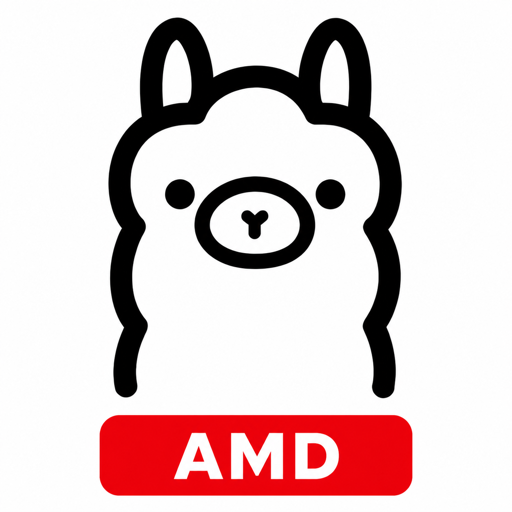
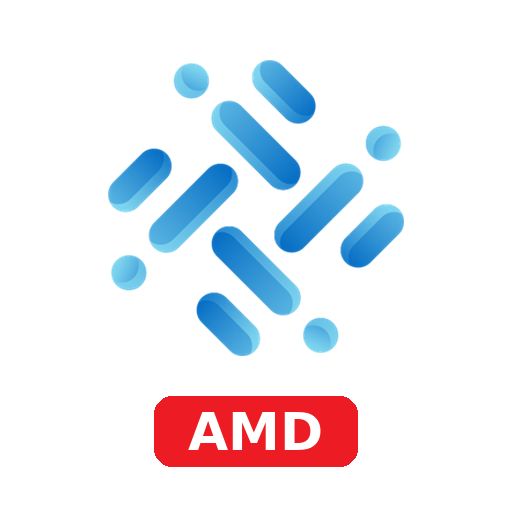
feat(apps): 将 Ollama 应用清单替换为 Kyserai GPU 变体
- 新增 nvidia/amd/intel 三个 Kyserai 应用清单（v10.25.5-kyseros.1），并更新图标与 README
- 新增 Dockerfile 与 GitHub Actions 构建工作流用于生成三平台镜像
- 更新 tests/test_manifests.py 以校验新的 slug、镜像与源信息

diff --git a/tests/test_manifests.py b/tests/test_manifests.py
@@ -5,33 +5,31 @@ from pathlib import Path
 
 
 ROOT = Path(__file__).resolve().parents[1]
+VERSION = 'v10.25.5-kyseros.1'
+SOURCE = 'https://github.com/cloudlnkcn/kyserai'
+SOURCE_REF = 'v10.25.5'
+IMAGE_BASE = 'kyserai'
 VARIANTS = {
     'nvidia': {
-        'slug': 'ollama',
-        'version': 'v0.32.6-reefy.1',
-        'image': 'ollama/ollama:0.32.6',
+        'slug': 'kyserai',
+        'image_tag': 'v10.25.5-nvidia',
         'gpu': True,
         'devices': [],
         'env': {},
     },
     'amd': {
-        'slug': 'ollama-rocm',
-        'version': 'v0.32.6-reefy.1',
-        'image': 'ollama/ollama:0.32.6-rocm',
+        'slug': 'kyserai-rocm',
+        'image_tag': 'v10.25.5-amd',
         'gpu': False,
         'devices': ['amd.com/gpu=all'],
         'env': {},
     },
     'intel': {
-        'slug': 'ollama-intel',
-        'version': 'v0.32.6-reefy.2',
-        'image': 'ollama/ollama:0.32.6',
+        'slug': 'kyserai-intel',
+        'image_tag': 'v10.25.5-intel',
         'gpu': False,
         'devices': ['intel.com/gpu=all'],
-        'env': {
-            'OLLAMA_IGPU_ENABLE': '1',
-            'OLLAMA_VULKAN': '1',
-        },
+        'env': {},
     },
 }
 
@@ -47,18 +45,29 @@ class ManifestTests(unittest.TestCase):
             manifest = load_manifest(variant)
             manifests[variant] = manifest
             self.assertEqual(manifest['slug'], expected['slug'])
-            self.assertEqual(manifest['version'], expected['version'])
-            self.assertEqual(manifest['image'], expected['image'])
-            self.assertEqual(manifest['upstream_image'], 'docker.io/' + expected['image'])
+            self.assertEqual(manifest['version'], VERSION)
+            self.assertEqual(manifest['image'], f'{IMAGE_BASE}:{expected["image_tag"]}')
+            self.assertEqual(manifest['source'], SOURCE)
+            self.assertEqual(manifest['source_ref'], SOURCE_REF)
             self.assertEqual(manifest['gpu'], expected['gpu'])
             self.assertEqual(manifest.get('devices', []), expected['devices'])
             self.assertEqual(manifest['env'], expected['env'])
-            self.assertEqual(manifest['default_port'], 11434)
+            self.assertEqual(manifest['default_port'], 13305)
             self.assertEqual(
-                manifest['volumes']['models']['mount'], '/root/.ollama')
+                manifest['volumes']['data']['mount'], '/var/lib/kyserai')
+            self.assertEqual(manifest['volumes']['data']['uid'], 0)
+            self.assertEqual(manifest['icon'], 'icon.png')
+            self.assertIn('llm', manifest['tags'])
 
         self.assertEqual(
             len({manifest['slug'] for manifest in manifests.values()}), 3)
+
+    def test_manifests_do_not_wrap_ollama(self):
+        for variant in VARIANTS:
+            text = (ROOT / variant / 'app.json').read_text()
+            self.assertNotIn('ollama', text.lower(), str(variant))
+            self.assertTrue(
+                load_manifest(variant)['image'].startswith(f'{IMAGE_BASE}:'))
 
     def test_icons_are_square_512_png_files(self):
         for variant in VARIANTS:
@@ -70,6 +79,14 @@ class ManifestTests(unittest.TestCase):
                 self.assertEqual(length, 13)
                 width, height = struct.unpack('>II', stream.read(8))
                 self.assertEqual((width, height), (512, 512))
+
+    def test_dockerfile_builds_kyserai_from_named_context(self):
+        dockerfile = (ROOT / 'Dockerfile').read_text()
+        self.assertIn('COPY --from=kyserai . /app', dockerfile)
+        self.assertIn('ARG GPU_VARIANT=nvidia', dockerfile)
+        for variant in VARIANTS:
+            self.assertIn(variant, dockerfile)
+        self.assertIn('EXPOSE 13305', dockerfile)
 
     def test_repository_text_uses_plain_hyphens(self):
         for path in ROOT.rglob('*'):

diff --git a/README.md b/README.md
@@ -1,38 +1,61 @@
-# Reefy Ollama apps
+# Kyserai GPU apps for KyserOS
 
-Canonical Reefy app manifests for running Ollama with NVIDIA, AMD, and Intel
-GPU acceleration.
+KyserOS app manifests and container build process for [Kyserai](https://github.com/cloudlnkcn/kyserai),
+a local LLM server with OpenAI-compatible REST APIs, published in NVIDIA,
+AMD, and Intel GPU variants.
 
 ## Variants
 
-| Reefy app | Manifest | Upstream image | Accelerator |
+| KyserOS app | Manifest | Image | Accelerator |
 |---|---|---|---|
-| `ollama` | `nvidia/app.json` | `ollama/ollama:0.32.6` | NVIDIA CUDA |
-| `ollama-rocm` | `amd/app.json` | `ollama/ollama:0.32.6-rocm` | AMD ROCm |
-| `ollama-intel` | `intel/app.json` | `ollama/ollama:0.32.6` | Intel Vulkan |
+| `kyserai` | `nvidia/app.json` | `kyserai:v10.25.5-nvidia` | NVIDIA CUDA |
+| `kyserai-rocm` | `amd/app.json` | `kyserai:v10.25.5-amd` | AMD ROCm / XDNA2 NPU |
+| `kyserai-intel` | `intel/app.json` | `kyserai:v10.25.5-intel` | Intel Vulkan / SYCL |
 
-The three manifests are lightweight wrappers around official Ollama images.
-This repository does not rebuild or mirror Ollama. Each package records its
-exact upstream image and uses Reefy's CDI device requests to activate the
-matching host provider.
+All three variants ship the same Kyserai program. The images differ only in
+runtime libraries: the AMD image additionally carries the XRT user space used
+by the FastFlowLM NPU backend. No GPU toolkit is baked in beyond that -
+inference backends (llama.cpp, sd.cpp, FastFlowLM) are downloaded at runtime
+by Kyserai itself, matched to the accelerator that KyserOS publishes via CDI
+(`nvidia.com/gpu`, `amd.com/gpu=all`, `intel.com/gpu=all`).
 
-Intel acceleration uses Ollama's Vulkan backend and sets `OLLAMA_VULKAN=1`
-plus `OLLAMA_IGPU_ENABLE=1`. Ollama 0.32.6 requires the latter opt-in to keep
-integrated GPUs in its scheduler. The Intel NPU is not requested because
-Ollama currently targets Intel GPUs, not the NPU.
+## Container build
+
+The [Dockerfile](Dockerfile) builds Kyserai from the sibling `kyserai`
+checkout, supplied as the named build context `kyserai`:
+
+```sh
+docker buildx build \
+    --build-context kyserai=../kyserai \
+    --build-arg GPU_VARIANT=nvidia \
+    -t kyserai:nvidia .
+```
+
+`GPU_VARIANT` is one of `nvidia`, `amd`, `intel`. Local builds require the
+`kyserai` repository checked out next to this one.
+
+## CI build
+
+`.github/workflows/build.yml` builds the three variants from the pinned
+kyserai ref as a build check. Nothing is pushed to a registry: images load
+into the runner's local docker as `kyserai:<kyserai-ref>-<variant>` and
+`kyserai:<variant>` and are discarded with the job. Deployment images come
+from local builds (see above) or from mirroring the built images to wherever
+KyserOS loads them from.
 
 ## Versioning
 
-Reefy package versions use `<upstream-release>-reefy.<revision>`. NVIDIA and
-AMD use `v0.32.6-reefy.1`; Intel uses `v0.32.6-reefy.2` to include the iGPU
-scheduler opt-in. All variants are based on Ollama `v0.32.6`.
+KyserOS package versions use `<kyserai-release>-kyseros.<revision>`. All
+three variants are currently `v10.25.5-kyseros.1`, based on Kyserai
+`v10.25.5`. Bump the version together with the `KYSERAI_REF` pin in
+`build.yml` and the tags in each manifest.
 
 ## Publishing
 
-Reefy's catalog imports each manifest from this repository by an immutable git
-tag. The app publisher uploads the matching relative `icon.png` to the Reefy
-CDN and stores the assembled catalog entry in PostgreSQL. No Reefy backend
-container deployment is required for an app release.
+KyserOS's catalog imports each manifest from this repository by an immutable
+git tag. The app publisher uploads the matching relative `icon.png` to the
+KyserOS CDN and stores the assembled catalog entry in PostgreSQL. No KyserOS
+backend container deployment is required for an app release.
 
 ## Validation
 
@@ -40,17 +63,16 @@ container deployment is required for an app release.
 python -m unittest discover -s tests -v
 ```
 
-Real GPU inference is validated by Reefy's protected dev-only hardware E2E
+Real GPU inference is validated by KyserOS's protected dev-only hardware E2E
 gate before production promotion.
 
 ## Upstream
 
-- [Ollama](https://github.com/ollama/ollama)
-- [Ollama Docker instructions](https://docs.ollama.com/docker)
-- [Ollama hardware support](https://docs.ollama.com/gpu)
+- [Kyserai](https://github.com/cloudlnkcn/kyserai)
+- [Kyserai API overview](https://github.com/cloudlnkcn/kyserai/blob/main/docs)
 
 ## License
 
-The Reefy manifests and supporting files in this repository are licensed
-under the MIT License. Ollama and model licenses remain governed by their
-respective upstream projects.
+The KyserOS manifests, container build process, and supporting files in this
+repository are licensed under the MIT License. Kyserai and model licenses
+remain governed by their respective upstream projects.
